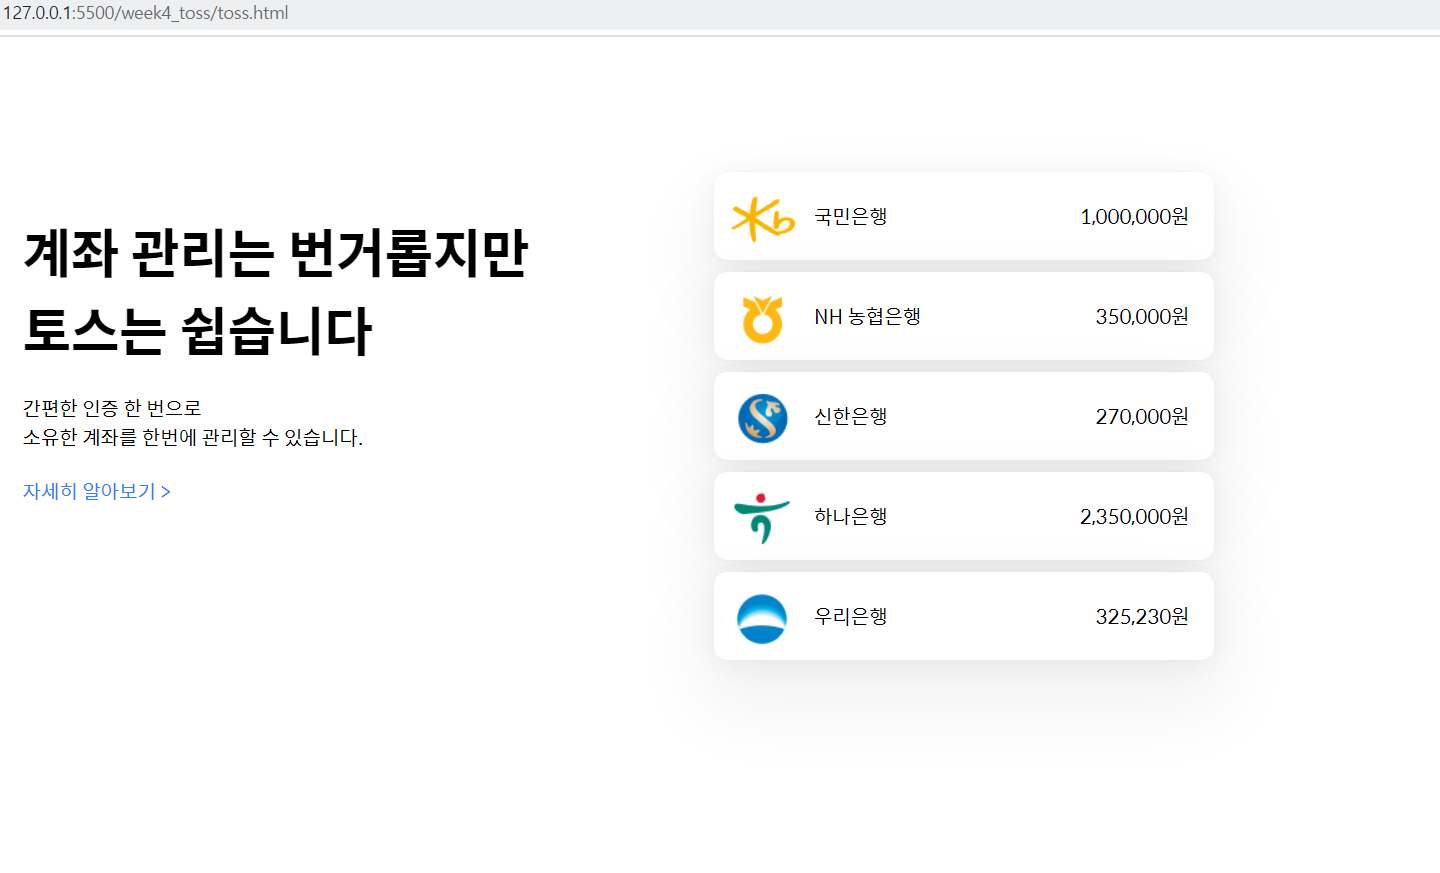
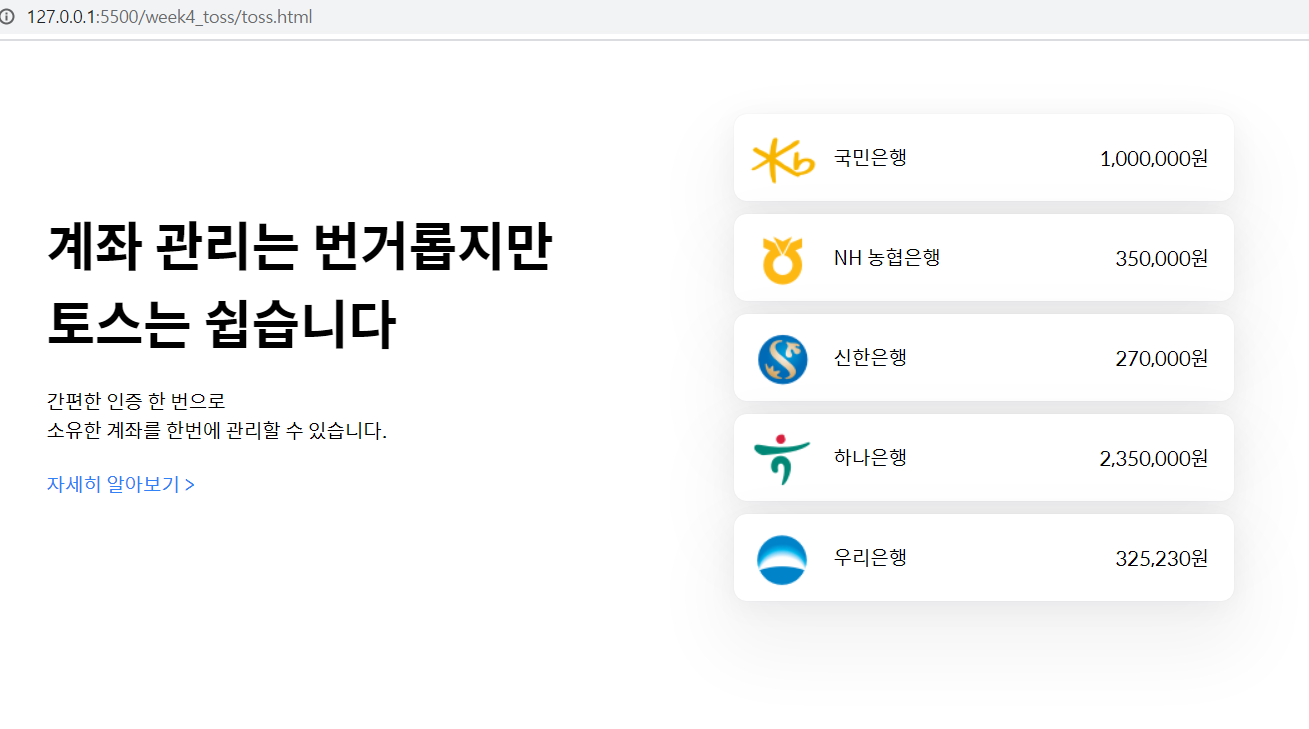
toss to flex

diff --git a/toss.html b/toss.html
@@ -9,55 +9,57 @@
     <link href='//spoqa.github.io/spoqa-han-sans/css/SpoqaHanSans-jp.css' rel='stylesheet' type='text/css'>
 </head>
 <body>
-    <div class="big_container">
-        <div class="big_font">
-            계좌 관리는 번거롭지만 토스는 쉽습니다
-        </div>
-        <div class="small_font">
-            간편한 인증 한 번으로
-        </br>
-            소유한 계좌를 한번에 관리할 수 있습니다.
-        </div>
-        <div class="small_font2">
-            자세히 알아보기 >
-        </div>
-        
-     </div>
-    <div class="big_container">
-        <div class="container">
-            <div class="box">
-                <img src="./logo_1.png", alt="로고 1"/>
-                국민은행
+    <div class="whole_container">
+        <div class="big_container">
+            <div class="big_font">
+                계좌 관리는 번거롭지만 토스는 쉽습니다
             </div>
-            <div class="box2">1,000,000원</div>
-        </div>
-        <div class="container">
-            <div class="box">
-                <img src="./logo_2.png", alt="로고 2"/>
-                NH 농협은행
+            <div class="small_font">
+                간편한 인증 한 번으로
+            </br>
+                소유한 계좌를 한번에 관리할 수 있습니다.
             </div>
-            <div class="box2">350,000원</div>
-        </div>
-        <div class="container">
-            <div class="box">
-                <img src="./logo_3.png", alt="로고 3"/>
-                신한은행
+            <div class="small_font2">
+                자세히 알아보기 >
             </div>
-            <div class="box2">270,000원</div>
+            
         </div>
-        <div class="container">
-            <div class="box">
-                <img src="./logo_4.png", alt="로고 4"/>
-                하나은행
+        <div class="card_container">
+            <div class="container">
+                <div class="box">
+                    <img src="./logo_1.png", alt="로고 1"/>
+                    국민은행
+                </div>
+                <div class="box2">1,000,000원</div>
             </div>
-            <div class="box2">2,350,000원</div>
-        </div>
-        <div class="container">
-            <div class="box">
-                <img src="./logo_5.png", alt="로고 5"/>
-                우리은행
+            <div class="container">
+                <div class="box">
+                    <img src="./logo_2.png", alt="로고 2"/>
+                    NH 농협은행
+                </div>
+                <div class="box2">350,000원</div>
             </div>
-            <div class="box2">325,230원</div>
+            <div class="container">
+                <div class="box">
+                    <img src="./logo_3.png", alt="로고 3"/>
+                    신한은행
+                </div>
+                <div class="box2">270,000원</div>
+            </div>
+            <div class="container">
+                <div class="box">
+                    <img src="./logo_4.png", alt="로고 4"/>
+                    하나은행
+                </div>
+                <div class="box2">2,350,000원</div>
+            </div>
+            <div class="container">
+                <div class="box">
+                    <img src="./logo_5.png", alt="로고 5"/>
+                    우리은행
+                </div>
+                <div class="box2">325,230원</div>
+            </div>
         </div>
     </div>
 </body>

diff --git a/toss.css b/toss.css
@@ -2,15 +2,34 @@
     font-family: 'Spoqa Han Sans', 'Spoqa Han Sans JP', 'Sans-serif'; 
 }
 
+.whole_container
+{
+    display : flex;
+    justify-content : center;
+    align-items : center;
+    width: 1100px;
+    height: 500px;
+    background-color: white;
+
+
+}
 .big_container
 {
-    display : inline-block;
-    width: 500px;
+    display : flex;
+    flex-direction: column;
+    justify-content : center;
+    width: 600px;
     height: 500px;
     background-color: white;
 
     margin-left : 100px;
-    margin-top : 100px;
+    margin-right : 100px;
+}
+
+.card_container {
+    display: flex;
+    flex-direction: column;
+    width: 450px;
 }
 
 .container
@@ -35,7 +54,6 @@
 
 img
 {
-    display: inline-block;
 
     margin-left : 10px;
     margin-right : 10px;
@@ -65,8 +83,7 @@ img
     margin-left : 50px;
     margin-bottom : 20px;
 
-    position : relative;
-    bottom: 100px;
+
 }
 
 .small_font
@@ -77,8 +94,6 @@ img
     margin-left : 50px;
     margin-bottom : 20px;
 
-    position : relative;
-    bottom: 100px;
 }
 
 .small_font2
@@ -90,6 +105,4 @@ img
     margin-left : 50px;
     margin-bottom : 20px;
 
-    position : relative;
-    bottom: 100px;
 }
